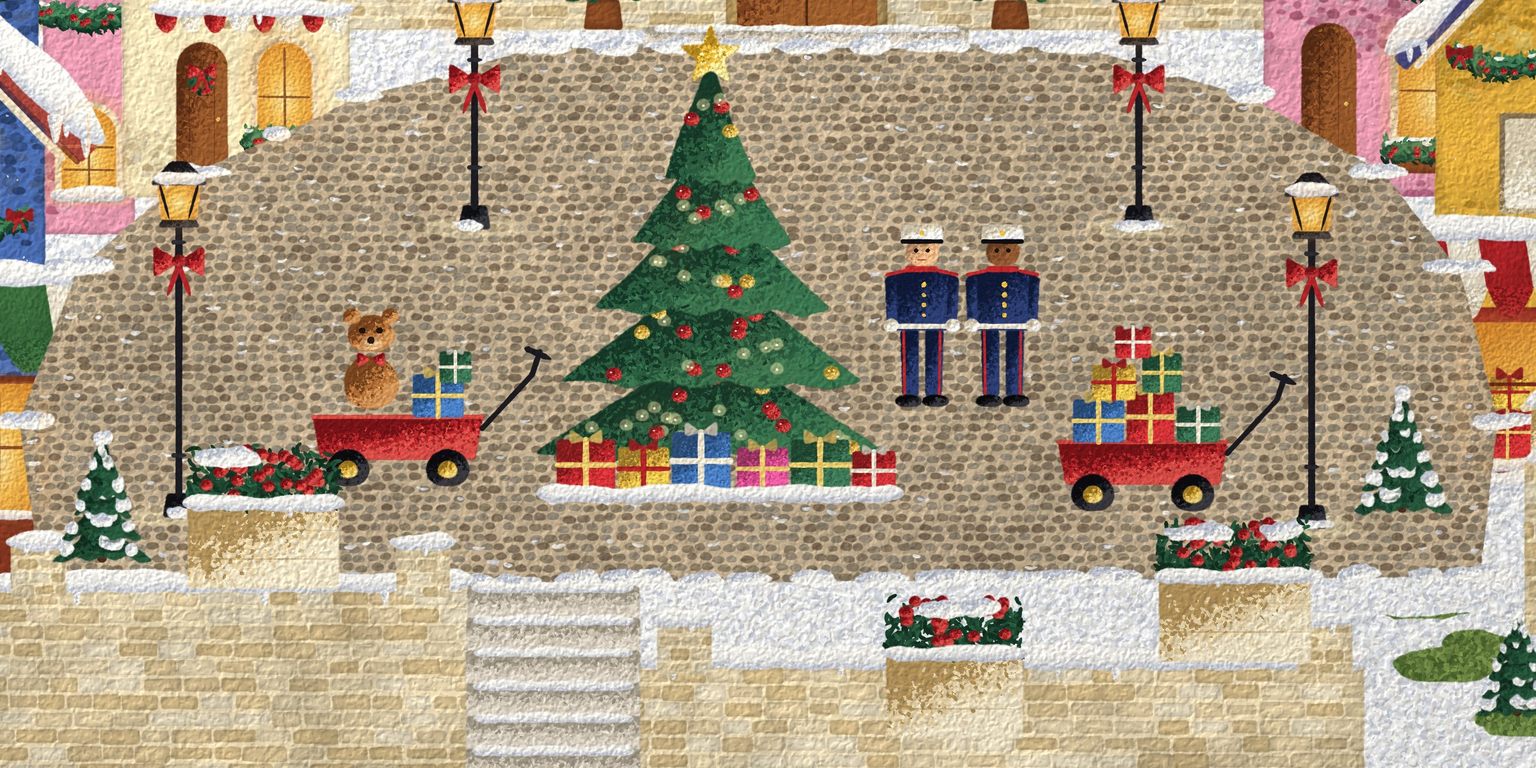
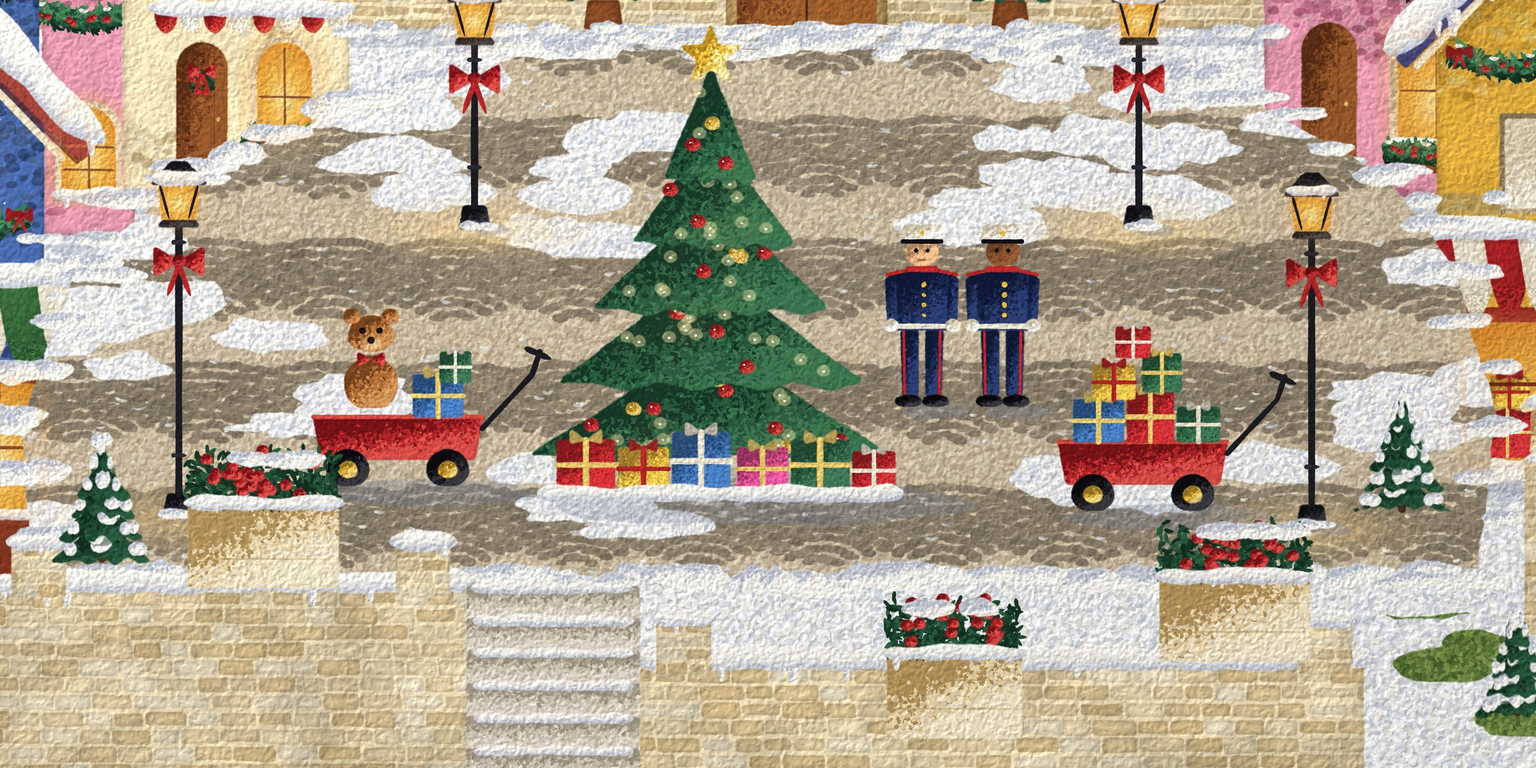
Toy Town: quieter fan-laid setts under trodden snow, soft square edge, lamp light pools, cast shadows, buildings grounded in the snow, station wing details, river through the bridge arch
Claude-Session: https://claude.ai/code/session_017tNAHgSCzTbES1SzX2uUW2

diff --git a/usmap/closeup/toytown/toytown_scene.py b/usmap/closeup/toytown/toytown_scene.py
@@ -97,29 +97,62 @@ def town_floor():
     T.sparkle(m, .5)
 
 def square():
-    """The cobbled square: rounded setts, a dusting of snow between them, worn paths kept clearer."""
+    """The square: setts laid in shallow fans (as real squares are), low in contrast, mostly under trodden snow.
+    The stones show only where feet have worn the snow away: paths to the doors, the steps and round the tree."""
     poly = [(300, 905), (290, 820), (320, 740), (380, 690), (470, 650), (560, 625), (840, 625), (930, 650), (1000, 690), (1040, 740),
             (1060, 820), (1050, 900)]
-    m = A(poly, COBBLE[1], wob=.4, rough=.6, edge_dark=.1)
+    m = A(poly, '#cdbda2', wob=1.2, rough=.8, edge_dark=.0)
+    stip(m, ['#cdbda2', '#c4b296', '#d6c8ae'], spacing=1.4, L=3.2, w=1.8)
     prev = T.c.clipm; T.c.set_clip(m)
-    for gy in np.arange(615, 915, 5.2):
-        off = T.R.uniform(0, 7)
-        for gx in np.arange(280 - off, 1070, 7.5):
-            px, py = gx + T.R.uniform(-1.2, 1.2), gy + T.R.uniform(-1, 1)
-            T.c.area(T.T(lump(px, py, T.R.uniform(3, 3.8), T.R.uniform(2, 2.6), amp=.15)), hexc(COBBLE[T.R.randint(len(COBBLE))]), wob=.1, rough=.4,
-                     edge_dark=.35, var=.05, a=.9, seed=int(T.R.randint(1 << 20)))
-    for _ in range(320):                                         # snow lying between the setts
+    # fans: arcs of stones around centres spaced across the square
+    for fx in np.arange(260, 1100, 64):
+        for k in range(1, 9):
+            fy = 960; r = k * 9.5
+            for a in np.linspace(-math.pi * .82, -math.pi * .18, int(r * .55)):
+                for row in range(0, 360, 64):
+                    px, py = fx + r * math.cos(a) + T.R.uniform(-1, 1), fy - row + r * math.sin(a) * .55 + T.R.uniform(-.8, .8)
+                    if not (600 < py < 920): continue
+                    col = '#%02x%02x%02x' % tuple(int(c * 255) for c in np.clip(hexc('#c8b69a') * T.R.uniform(.9, 1.08), 0, 1))
+                    T.c.area(T.T(lump(px, py, T.R.uniform(3.4, 4.6), T.R.uniform(2.2, 2.8), amp=.2)), hexc(col), wob=.2, rough=.5,
+                             edge_dark=.3, var=.04, a=.9, seed=int(T.R.randint(1 << 20)))
+    # trodden snow over most of it: large soft sheets, leaving worn paths clear
+    worn = [((700, 640), (700, 900), 70), ((420, 720), (700, 860), 46), ((980, 720), (700, 860), 46), ((340, 860), (560, 900), 40),
+            ((1040, 860), (900, 900), 40)]
+    def near_path(x, y):
+        for (a, b, w) in worn:
+            ax, ay = a; bx, by = b; t = np.clip(((x - ax) * (bx - ax) + (y - ay) * (by - ay)) / ((bx - ax) ** 2 + (by - ay) ** 2), 0, 1)
+            if math.hypot(x - ax - t * (bx - ax), y - ay - t * (by - ay)) < w: return True
+        return False
+    for _ in range(120):
         x, y = T.R.uniform(290, 1060), T.R.uniform(625, 905)
-        T.c.dab(x - T.X0, y - T.Y0, T.R.uniform(3, 7), T.R.uniform(1.4, 2.4), T.R.uniform(-.3, .3), SNOWG[T.R.randint(3)], a=.85, dry=.2)
+        if near_path(x, y): continue
+        mm = A(lump(x, y, T.R.uniform(18, 40), T.R.uniform(7, 14), amp=.25), SNOWG[0], wob=.8, rough=.9, edge_dark=0, a=.92)
+        stip(mm, SNOWG + ['#ffffff'], spacing=1.4, L=3.0, w=1.8, weights=[.35, .25, .15, .25])
+    for _ in range(260):                                         # a thin dusting everywhere, catching between stones
+        x, y = T.R.uniform(290, 1060), T.R.uniform(625, 905)
+        T.c.dab(x - T.X0, y - T.Y0, T.R.uniform(3, 7), T.R.uniform(1.4, 2.4), T.R.uniform(-.3, .3), SNOWG[T.R.randint(3)], a=.75, dry=.3)
     T.c.clipm = prev
+    # the square's edge: snow heaped irregularly, wider in places, so it melts into the surrounding snow
     P = poly + [poly[0]]
     for a_, b_ in zip(P, P[1:]):
-        for t in np.linspace(0, 1, max(2, int(math.dist(a_, b_) / 30))):
-            snow_clump(a_[0] + (b_[0] - a_[0]) * t, a_[1] + (b_[1] - a_[1]) * t, T.R.uniform(12, 20), T.R.uniform(3.5, 5.5))
+        for t in np.linspace(0, 1, max(2, int(math.dist(a_, b_) / 18))):
+            snow_clump(a_[0] + (b_[0] - a_[0]) * t + T.R.uniform(-6, 6), a_[1] + (b_[1] - a_[1]) * t + T.R.uniform(-4, 4), T.R.uniform(14, 30), T.R.uniform(4, 8))
+
+def cast(x, y, rx, ry, a=.32):
+    """A soft cool shadow on the snow under an object, offset a little away from the light (upper left)."""
+    T.c.area(T.T(lump(x + rx * .15, y + ry * .3, rx, ry, amp=.08)), hexc('#7a86a0'), wob=.4, rough=.6, edge_dark=0, a=a, var=0, varbig=0, seed=int(x * 3 + y))
+
+def ground_line(x0, x1, y, depth=9, a=.3):
+    """Where a wall meets the snow: a soft blue-grey shade along its foot, and the snow banked against it."""
+    T.c.area(T.T([(x0, y - 2), (x1, y - 2), (x1 + depth * .6, y + depth), (x0 + depth * .6, y + depth)]), hexc('#7a86a0'), wob=.6, rough=.7, edge_dark=0, a=a, var=0, varbig=0, seed=int(x0))
+    for t in np.linspace(0, 1, max(2, int((x1 - x0) / 22))):
+        snow_clump(x0 + (x1 - x0) * t + T.R.uniform(-5, 5), y + T.R.uniform(-1, 2), T.R.uniform(10, 18), T.R.uniform(3, 5))
 
 def lamp(x, y, h=120):
     """A black street lamp with a glowing lantern and a red bow; its light pools on the snow."""
-    T.c.area(T.T(lump(x, y + 2, 26, 7, amp=.1)), hexc('#fff0c0'), wob=.3, rough=.5, edge_dark=0, a=.35, var=0, varbig=0, seed=int(x))
+    for rr_, aa in ((60, .12), (40, .16), (24, .2)):          # warm light pooling on the snow under the lantern
+        T.c.area(T.T(lump(x, y + 4, rr_, rr_ * .32, amp=.1)), hexc('#ffd890'), wob=.4, rough=.6, edge_dark=0, a=aa, var=0, varbig=0, seed=int(x + rr_))
+    cast(x + 8, y + 2, 10, 3.5)
     shaded([(x - 8, y + 2), (x + 8, y + 2), (x + 6, y - 10), (x - 6, y - 10)], ['#3a3a40', '#22222a', '#101014'], wob=.05, rough=.2, edge_dark=.2)
     S([(x, y - 10), (x, y - h + 26)], 4.0, '#1c1c22', a=1, dry=.05, taper=(0, 0))
     for yy in (y - 30, y - h + 34): S([(x - 4, yy), (x + 4, yy)], 2.5, '#2a2a32', a=1, dry=0)
@@ -146,6 +179,7 @@ def present(bx, by, bw, bh, col, rib):
 
 def christmas_tree(x, y, h):
     """The square's Christmas tree: tiers of needles, baubles, warm lights, a gold star, presents beneath."""
+    cast(x + 10, y + 14, 110, 14, .3)
     tiers = [(.04, .32, .44), (.22, .5, .37), (.4, .68, .29), (.56, .84, .2), (.72, 1.0, .11)]
     S([(x, y), (x, y - h * .1)], 8, '#4a3020', a=1, dry=.1)
     for i, (ta, tb, wd) in enumerate(tiers):
@@ -173,6 +207,7 @@ def christmas_tree(x, y, h):
 
 def wagon(x, y, load='bear'):
     """A red toy wagon with black wheels, a handle, and a load: a teddy bear with presents, or a stack of presents."""
+    cast(x + 8, y + 8, 56, 8)
     shaded([(x - 44, y - 30), (x + 44, y - 30), (x + 40, y - 8), (x - 40, y - 8)], ['#e0504a', '#b8262a', '#7a1418'], light=(-.5, -.8), wob=.05, rough=.2, edge_dark=.2)
     S([(x - 44, y - 30), (x + 44, y - 30)], 2.5, '#d84a40', a=1, dry=.05, taper=(0, 0))
     for wx in (x - 26, x + 26):
@@ -198,6 +233,7 @@ def wagon(x, y, load='bear'):
 def marine(x, y, h=96, skin='#e8b080'):
     """A toy Marine in dress blues standing to attention: white cap, blue coat with red trim, gold buttons."""
     NAVY, NAVY_D, NAVY_L = '#1c2a52', '#101a38', '#2e4078'
+    cast(x + 6, y + 1, 18, 4)
     for sg in (-1, 1):                                          # trousers with a red stripe, black shoes
         shaded([(x + sg * 2, y - h * .42), (x + sg * 11, y - h * .42), (x + sg * 10, y - 6), (x + sg * 2, y - 6)], [NAVY_L, NAVY, NAVY_D], wob=.05, rough=.2, edge_dark=.2)
         S([(x + sg * 9.5, y - h * .42), (x + sg * 9, y - 7)], 1.6, '#c8282a', a=1, dry=.05, taper=(0, 0))
@@ -254,10 +290,17 @@ def bridge():
     # the arch opening: dark under the bridge, its own voussoirs
     cx, cy, rx, ry = 1265, 955, 110, 90
     op = [(cx - rx, 960)] + [(cx + rx * math.cos(math.radians(a)), cy + ry * math.sin(math.radians(a))) for a in np.linspace(180, 360, 30)] + [(cx + rx, 960)]
-    m = A(op, WATER[3], wob=.1, rough=.3, edge_dark=.0)
-    stip(m, WATER, spacing=1.3, L=4.5, w=1.6, ang=1.1)
-    shaded([(cx - rx, cy)] + [(cx + rx * math.cos(math.radians(a)), cy + ry * math.sin(math.radians(a))) for a in np.linspace(180, 360, 30)] + [(cx + rx, cy), (cx + rx * .8, cy - ry * .2), (cx - rx * .8, cy - ry * .2)],
-           ['#3a5478', '#2c4466', '#1e3252'], light=(0, -1), wob=.1, rough=.3, edge_dark=.1, a=.55)
+    # through the arch: the far snowy bank, the river running through, the shade under the vault
+    m = A(op, '#c8d0dc', wob=.1, rough=.3, edge_dark=.0)
+    stip(m, ['#c8d0dc', '#b8c2d2', '#d8dee8'], spacing=1.4, L=3.0, w=1.8)
+    wat = [(cx - rx, 960), (cx - rx * .9, cy - ry * .25), (cx + rx * .9, cy - ry * .35), (cx + rx, 960)]
+    mw = A(wat, WATER[1], wob=.4, rough=.6, edge_dark=.05)
+    stip(mw, WATER, spacing=1.3, L=4.5, w=1.6, ang=.15)
+    for _ in range(26):
+        T.c.dab(cx - T.X0 + T.R.uniform(-rx * .8, rx * .8), cy - T.Y0 + T.R.uniform(-ry * .25, 4), T.R.uniform(5, 10), 1.5, .1, '#e8f0f8', a=.8, dry=.2)
+    top = [(cx + rx * math.cos(math.radians(a)), cy + ry * math.sin(math.radians(a))) for a in np.linspace(180, 360, 30)]
+    inner = [(cx + rx * .92 * math.cos(math.radians(a)), cy - ry * .2 + ry * .78 * math.sin(math.radians(a))) for a in np.linspace(360, 180, 30)]
+    T.c.area(T.T(top + inner), hexc('#1e2a40'), wob=.2, rough=.5, edge_dark=0, a=.55, var=0, varbig=0, seed=7)
     for i in range(15):
         a0, a1 = 180 + 12 * i, 180 + 12 * (i + 1)
         q = [(cx + (rx + d) * math.cos(math.radians(a)), cy + (ry + d) * math.sin(math.radians(a))) for d, a in ((0, a0 + .5), (0, a1 - .5), (14, a1 - .5), (14, a0 + .5))]
@@ -282,6 +325,8 @@ def build_scene():
     build_station(); log('station')
     build_west(); build_east(); log('houses')
     T.blue_shop(); log('blue shop')
+    for (x0, x1, y) in ((596, 804, 616), (458, 598, 616), (802, 942, 616), (344, 462, 703), (302, 350, 723), (938, 1058, 703), (1028, 1290, 852), (0, 340, 906)):
+        ground_line(x0, x1, y)
     square(); log('square')
     for (x, y) in ((527, 717), (873, 717)): lamp(x, y, 120)
     wagon(487, 847, 'bear'); wagon(875, 860, 'presents')

diff --git a/usmap/closeup/toytown/toytown_station.py b/usmap/closeup/toytown/toytown_station.py
@@ -169,6 +169,16 @@ def station():
         roof(pts, cols=['#a8463c', '#8a3430', '#b8564a'], snowy=.35, ridge=(pts[1], pts[2]), eave=(pts[0], pts[3]))
         snow_edge([(rx0 - 6, 266), (rx1 + 6, 266)], 11, drip=.4)
         eave_shadow([(wx0, 268), (wx1, 268)], 8, '#8a7650')
+        # a stone string course with snow on it, a darker plinth, and weathering low on the wall
+        shaded([(wx0, 446), (wx1, 446), (wx1, 456), (wx0, 456)], [STONE[3], STONE[1], STONE_D], light=(0, -1), wob=.1, rough=.3, edge_dark=.25, L=3, w=1.4)
+        snow_edge([(wx0 + 2, 445), (wx1 - 2, 445)], 5, drip=.3)
+        shaded([(wx0, 590), (wx1, 590), (wx1, 615), (wx0, 615)], ['#cbb487', '#b89f72', '#9a8258'], light=(0, -1), wob=.1, rough=.3, edge_dark=.2, L=3, w=1.4)
+        T.c.area(T.T([(wx0, 520), (wx1, 520), (wx1, 590), (wx0, 590)]), hexc('#a08a64'), wob=.6, rough=.8, edge_dark=0, a=.18, var=0, varbig=0, seed=int(wx0))
+        # garland of greenery and lights along the wing below the swags, and lit lower windows
+        garland(wx0 + 10, wx1 - 10, 470, sag=8, swags=3, bows=True)
+        for k in range(3):
+            lx = wx0 + 30 + k * (wx1 - wx0 - 60) / 2
+            window(lx - 16, 520, lx + 16, 566, True, frame=3.5)
         xs = np.linspace(wx0 + 14, (wx1 if sgn < 0 else wx1) - 14, 4)
         for a_, b_ in zip(xs, xs[1:]): swag(a_, b_, 282, 20)
         # the arched side window
